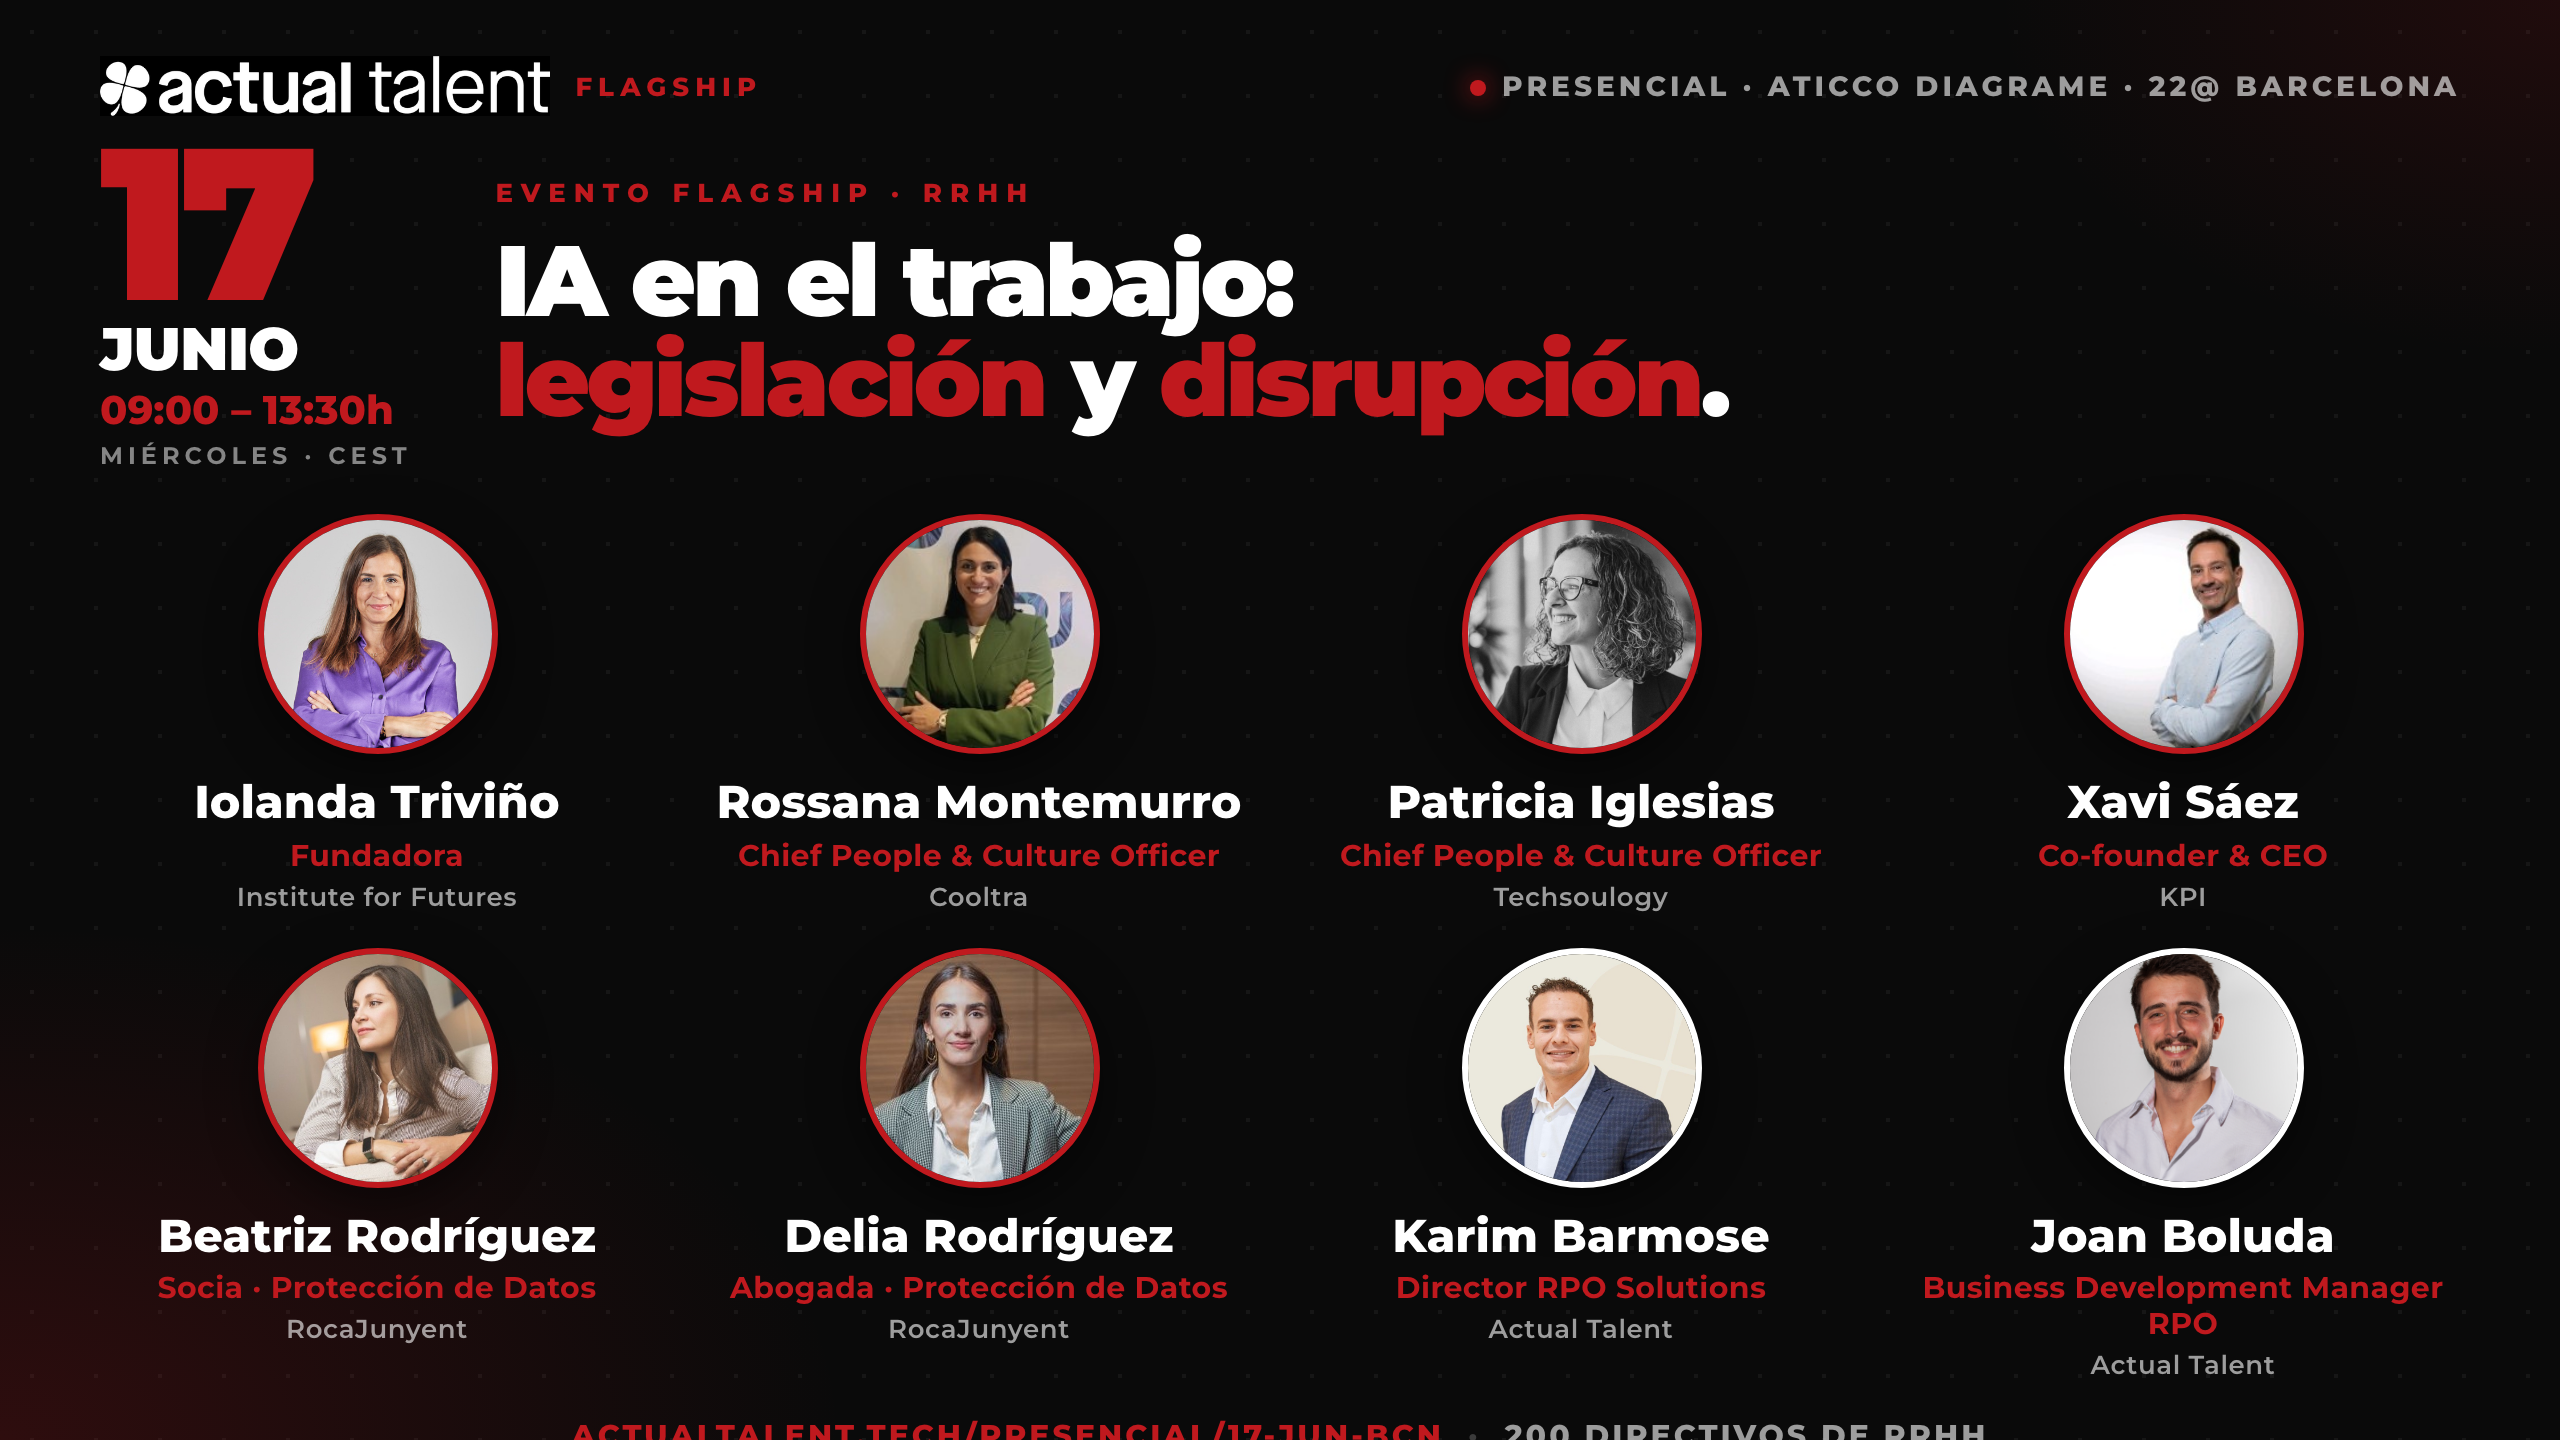
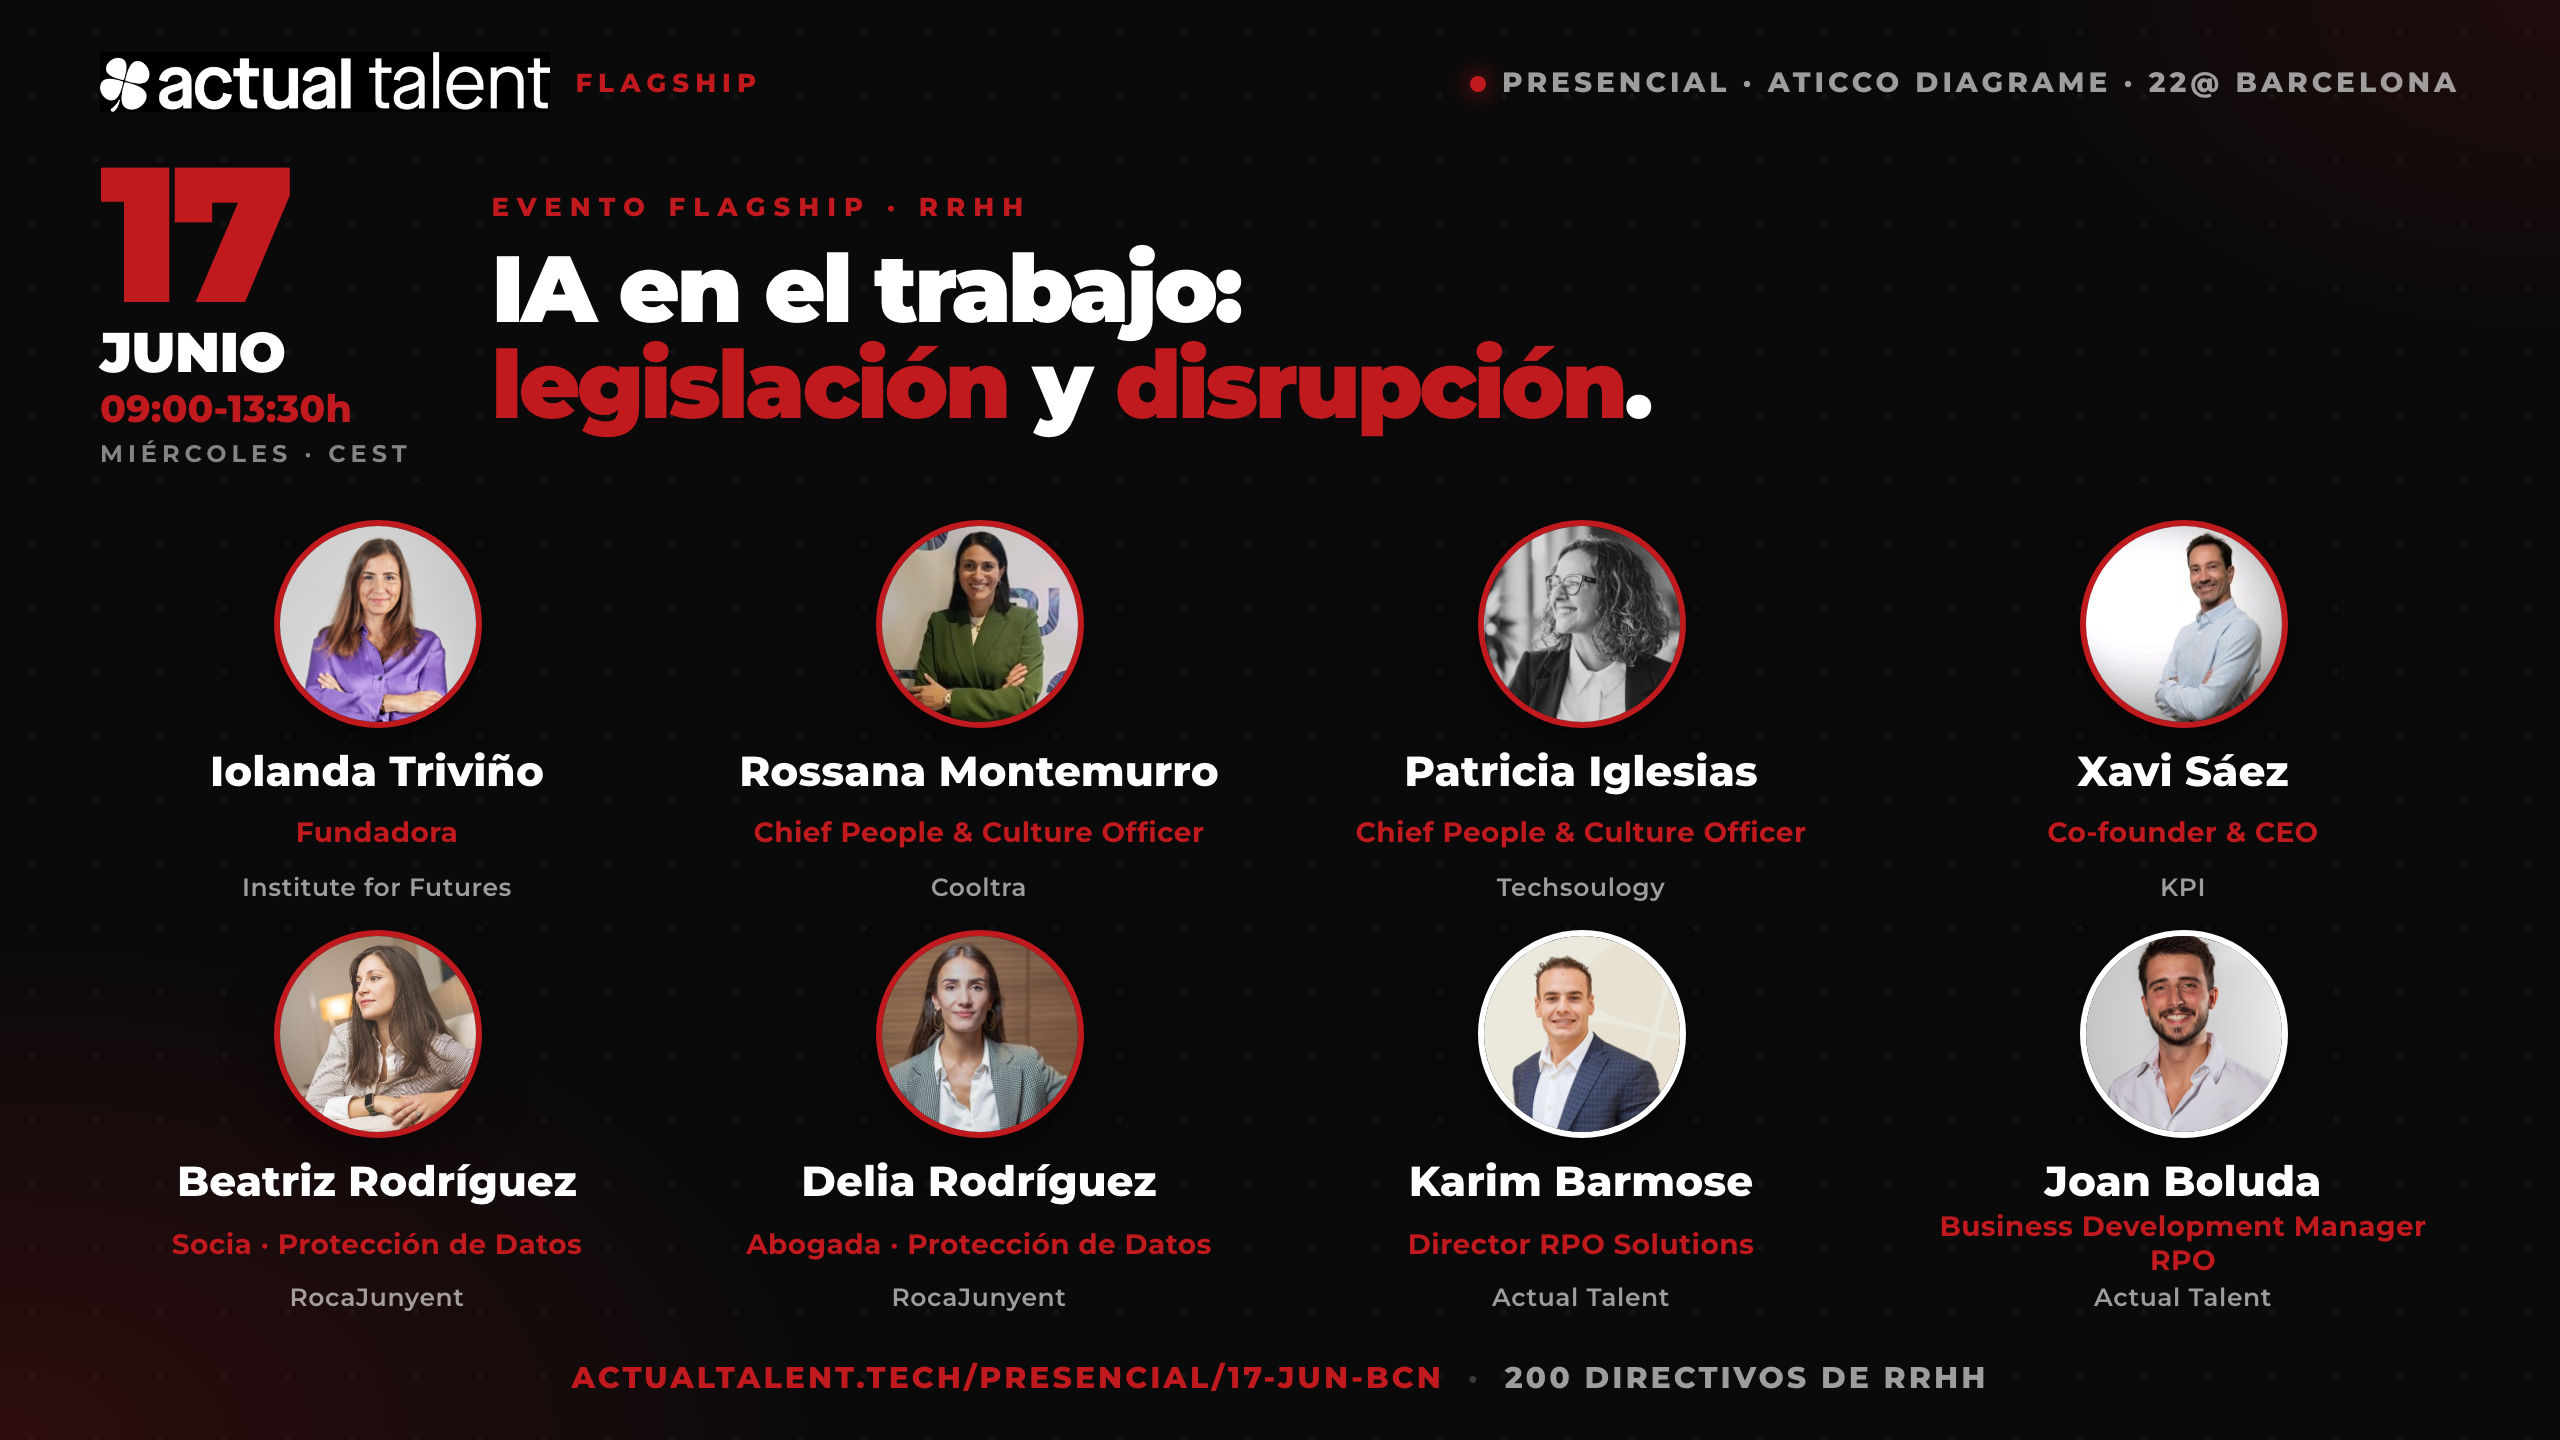
17-jun-bcn flyers: LinkedIn contenido centrado (sin corte abajo), Luma caras grandes (144px), hora sin en-dash

diff --git a/presencial/17-jun-bcn/flyer-linkedin/index.html b/presencial/17-jun-bcn/flyer-linkedin/index.html
@@ -16,33 +16,34 @@ body{font-family:'Montserrat',sans-serif;background:#000;-webkit-font-smoothing:
 .flyer::before{content:'';position:absolute;inset:0;background:
   radial-gradient(ellipse 60% 65% at 0% 100%,rgba(192,25,30,.20) 0%,transparent 55%),
   radial-gradient(ellipse 40% 45% at 100% 0%,rgba(192,25,30,.12) 0%,transparent 55%);pointer-events:none;z-index:1}
-.wrap{position:absolute;inset:0;z-index:5;padding:28px 50px 24px;display:flex;flex-direction:column}
-.topbar{display:flex;align-items:center;justify-content:space-between}
+.wrap{position:absolute;inset:0;z-index:5;padding:26px 50px 22px;display:flex;flex-direction:column;justify-content:space-between}
+.topbar{display:flex;align-items:center;justify-content:space-between;flex:0 0 auto}
 .brand-mark{display:flex;align-items:center;gap:13px}
 .brand-logo{height:30px;width:auto;display:block}
 .brand-tag{font-size:13px;font-weight:800;letter-spacing:3px;text-transform:uppercase;color:var(--red)}
 .topbar-right{font-size:14px;font-weight:800;letter-spacing:2px;text-transform:uppercase;color:rgba(255,255,255,.6)}
 .topbar-right .dot{display:inline-block;width:8px;height:8px;background:var(--red);border-radius:50%;margin-right:8px;vertical-align:middle;box-shadow:0 0 12px var(--red)}
-.hero{display:flex;gap:42px;align-items:center;margin-top:10px}
+.main{flex:1 1 auto;display:flex;flex-direction:column;justify-content:center;gap:26px;min-height:0}
+.hero{display:flex;gap:40px;align-items:center}
 .date-block{flex-shrink:0}
-.date-num{font-size:108px;font-weight:900;line-height:.8;color:var(--red);letter-spacing:-.05em}
+.date-num{font-size:96px;font-weight:900;line-height:.8;color:var(--red);letter-spacing:-.05em}
 .date-side{display:flex;flex-direction:column;gap:3px;margin-top:6px}
-.date-month{font-size:30px;font-weight:900;line-height:1;text-transform:uppercase;letter-spacing:-.01em}
-.date-time{font-size:20px;font-weight:800;color:var(--red)}
+.date-month{font-size:28px;font-weight:900;line-height:1;text-transform:uppercase;letter-spacing:-.01em}
+.date-time{font-size:19px;font-weight:800;color:var(--red)}
 .date-tz{font-size:12px;font-weight:700;letter-spacing:2.5px;text-transform:uppercase;color:rgba(255,255,255,.5)}
 .title-wrap{flex:1}
-.eyebrow{font-size:13px;font-weight:800;letter-spacing:4px;text-transform:uppercase;color:var(--red);margin-bottom:12px}
-.title{font-size:50px;font-weight:900;line-height:1;letter-spacing:-.035em}
+.eyebrow{font-size:13px;font-weight:800;letter-spacing:4px;text-transform:uppercase;color:var(--red);margin-bottom:10px}
+.title{font-size:47px;font-weight:900;line-height:1.02;letter-spacing:-.035em}
 .title .accent{color:var(--red)}
-.speakers{margin-top:22px;display:grid;grid-template-columns:repeat(4,1fr);gap:18px 24px}
+.speakers{display:grid;grid-template-columns:repeat(4,1fr);gap:14px 24px}
 .speaker{display:flex;flex-direction:column;align-items:center;text-align:center}
-.sp-photo{width:120px;height:120px;border-radius:50%;overflow:hidden;border:3px solid var(--red);box-shadow:0 8px 24px rgba(0,0,0,.5);margin-bottom:12px}
+.sp-photo{width:104px;height:104px;border-radius:50%;overflow:hidden;border:3px solid var(--red);box-shadow:0 8px 24px rgba(0,0,0,.5);margin-bottom:10px}
 .sp-photo.host{border-color:#fff}
 .sp-photo img{width:100%;height:100%;object-fit:cover;display:block}
-.sp-name{font-size:23px;font-weight:800;line-height:1.1;margin-bottom:4px}
-.sp-cargo{font-size:15px;font-weight:700;letter-spacing:.2px;color:var(--red);line-height:1.2;margin-bottom:3px}
-.sp-org{font-size:13px;font-weight:600;letter-spacing:.3px;color:rgba(255,255,255,.6)}
-.footer{margin-top:auto;padding-top:18px;text-align:center}
+.sp-name{font-size:21px;font-weight:800;line-height:1.1;margin-bottom:3px}
+.sp-cargo{font-size:14px;font-weight:700;letter-spacing:.2px;color:var(--red);line-height:1.2;margin-bottom:2px;min-height:34px;display:flex;align-items:center;justify-content:center}
+.sp-org{font-size:12.5px;font-weight:600;letter-spacing:.3px;color:rgba(255,255,255,.6)}
+.footer{flex:0 0 auto;text-align:center}
 .footer .u{font-size:15px;font-weight:800;letter-spacing:1.5px;text-transform:uppercase;color:rgba(255,255,255,.6)}
 .footer .u .link{color:var(--red)}.footer .u .sep{color:rgba(255,255,255,.2);margin:0 12px}
 </style>
@@ -55,30 +56,32 @@ body{font-family:'Montserrat',sans-serif;background:#000;-webkit-font-smoothing:
       <div class="topbar-right"><span class="dot"></span>Presencial · Aticco Diagrame · 22@ Barcelona</div>
     </div>
 
-    <div class="hero">
-      <div class="date-block">
-        <div class="date-num">17</div>
-        <div class="date-side">
-          <div class="date-month">Junio</div>
-          <div class="date-time">09:00 – 13:30h</div>
-          <div class="date-tz">Miércoles · CEST</div>
+    <div class="main">
+      <div class="hero">
+        <div class="date-block">
+          <div class="date-num">17</div>
+          <div class="date-side">
+            <div class="date-month">Junio</div>
+            <div class="date-time">09:00-13:30h</div>
+            <div class="date-tz">Miércoles · CEST</div>
+          </div>
+        </div>
+        <div class="title-wrap">
+          <div class="eyebrow">Evento flagship · RRHH</div>
+          <h1 class="title">IA en el trabajo:<br><span class="accent">legislación</span> y <span class="accent">disrupción</span>.</h1>
         </div>
       </div>
-      <div class="title-wrap">
-        <div class="eyebrow">Evento flagship · RRHH</div>
-        <h1 class="title">IA en el trabajo:<br><span class="accent">legislación</span> y <span class="accent">disrupción</span>.</h1>
-      </div>
-    </div>
 
-    <div class="speakers">
-      <div class="speaker"><div class="sp-photo"><img src="../../../webinar/assets/speakers/iolanda-trivino.jpg" alt="Iolanda Triviño"></div><div class="sp-name">Iolanda Triviño</div><div class="sp-cargo">Fundadora</div><div class="sp-org">Institute for Futures</div></div>
-      <div class="speaker"><div class="sp-photo"><img src="../../../webinar/assets/speakers/rossana-montemurro.jpg" alt="Rossana Montemurro"></div><div class="sp-name">Rossana Montemurro</div><div class="sp-cargo">Chief People &amp; Culture Officer</div><div class="sp-org">Cooltra</div></div>
-      <div class="speaker"><div class="sp-photo"><img src="../../../webinar/assets/speakers/patricia-iglesias.jpg" alt="Patricia Iglesias"></div><div class="sp-name">Patricia Iglesias</div><div class="sp-cargo">Chief People &amp; Culture Officer</div><div class="sp-org">Techsoulogy</div></div>
-      <div class="speaker"><div class="sp-photo"><img src="../../../webinar/assets/speakers/xavi-saez.jpg" alt="Xavi Sáez"></div><div class="sp-name">Xavi Sáez</div><div class="sp-cargo">Co-founder &amp; CEO</div><div class="sp-org">KPI</div></div>
-      <div class="speaker"><div class="sp-photo"><img src="../../../webinar/assets/speakers/beatriz-rodriguez.jpg" alt="Beatriz Rodríguez"></div><div class="sp-name">Beatriz Rodríguez</div><div class="sp-cargo">Socia · Protección de Datos</div><div class="sp-org">RocaJunyent</div></div>
-      <div class="speaker"><div class="sp-photo"><img src="../../../webinar/assets/speakers/delia-rodriguez.jpg" alt="Delia Rodríguez"></div><div class="sp-name">Delia Rodríguez</div><div class="sp-cargo">Abogada · Protección de Datos</div><div class="sp-org">RocaJunyent</div></div>
-      <div class="speaker"><div class="sp-photo host"><img src="../../../webinar/assets/speakers/karim-barmose.jpg" alt="Karim Barmose"></div><div class="sp-name">Karim Barmose</div><div class="sp-cargo">Director RPO Solutions</div><div class="sp-org">Actual Talent</div></div>
-      <div class="speaker"><div class="sp-photo host"><img src="../../../webinar/assets/speakers/joan-boluda.jpg" alt="Joan Boluda"></div><div class="sp-name">Joan Boluda</div><div class="sp-cargo">Business Development Manager RPO</div><div class="sp-org">Actual Talent</div></div>
+      <div class="speakers">
+        <div class="speaker"><div class="sp-photo"><img src="../../../webinar/assets/speakers/iolanda-trivino.jpg" alt="Iolanda Triviño"></div><div class="sp-name">Iolanda Triviño</div><div class="sp-cargo">Fundadora</div><div class="sp-org">Institute for Futures</div></div>
+        <div class="speaker"><div class="sp-photo"><img src="../../../webinar/assets/speakers/rossana-montemurro.jpg" alt="Rossana Montemurro"></div><div class="sp-name">Rossana Montemurro</div><div class="sp-cargo">Chief People &amp; Culture Officer</div><div class="sp-org">Cooltra</div></div>
+        <div class="speaker"><div class="sp-photo"><img src="../../../webinar/assets/speakers/patricia-iglesias.jpg" alt="Patricia Iglesias"></div><div class="sp-name">Patricia Iglesias</div><div class="sp-cargo">Chief People &amp; Culture Officer</div><div class="sp-org">Techsoulogy</div></div>
+        <div class="speaker"><div class="sp-photo"><img src="../../../webinar/assets/speakers/xavi-saez.jpg" alt="Xavi Sáez"></div><div class="sp-name">Xavi Sáez</div><div class="sp-cargo">Co-founder &amp; CEO</div><div class="sp-org">KPI</div></div>
+        <div class="speaker"><div class="sp-photo"><img src="../../../webinar/assets/speakers/beatriz-rodriguez.jpg" alt="Beatriz Rodríguez"></div><div class="sp-name">Beatriz Rodríguez</div><div class="sp-cargo">Socia · Protección de Datos</div><div class="sp-org">RocaJunyent</div></div>
+        <div class="speaker"><div class="sp-photo"><img src="../../../webinar/assets/speakers/delia-rodriguez.jpg" alt="Delia Rodríguez"></div><div class="sp-name">Delia Rodríguez</div><div class="sp-cargo">Abogada · Protección de Datos</div><div class="sp-org">RocaJunyent</div></div>
+        <div class="speaker"><div class="sp-photo host"><img src="../../../webinar/assets/speakers/karim-barmose.jpg" alt="Karim Barmose"></div><div class="sp-name">Karim Barmose</div><div class="sp-cargo">Director RPO Solutions</div><div class="sp-org">Actual Talent</div></div>
+        <div class="speaker"><div class="sp-photo host"><img src="../../../webinar/assets/speakers/joan-boluda.jpg" alt="Joan Boluda"></div><div class="sp-name">Joan Boluda</div><div class="sp-cargo">Business Development Manager RPO</div><div class="sp-org">Actual Talent</div></div>
+      </div>
     </div>
 
     <div class="footer">

diff --git a/presencial/17-jun-bcn/flyer-square/index.html b/presencial/17-jun-bcn/flyer-square/index.html
@@ -34,10 +34,10 @@ body{font-family:'Montserrat',sans-serif;background:#000;-webkit-font-smoothing:
 .title .a{color:var(--red)}
 .lineup{margin-top:auto;padding-top:30px}
 .lineup-label{font-size:12px;font-weight:800;letter-spacing:3px;text-transform:uppercase;color:rgba(255,255,255,.4);margin-bottom:16px}
-.faces{display:flex;gap:14px}
-.faces .f{width:96px;height:96px;border-radius:50%;overflow:hidden;border:3px solid var(--red);box-shadow:0 6px 20px rgba(0,0,0,.4)}
+.faces{display:flex;gap:16px;justify-content:space-between}
+.faces .f{width:144px;height:144px;border-radius:50%;overflow:hidden;border:4px solid var(--red);box-shadow:0 6px 20px rgba(0,0,0,.4)}
 .faces .f img{width:100%;height:100%;object-fit:cover;display:block}
-.names{font-size:18px;font-weight:600;color:rgba(255,255,255,.78);margin-top:16px;line-height:1.45;max-width:920px}
+.names{font-size:20px;font-weight:600;color:rgba(255,255,255,.82);margin-top:20px;line-height:1.5;max-width:960px}
 .names b{color:var(--white);font-weight:800}
 .footer{display:flex;align-items:flex-end;justify-content:space-between;margin-top:32px;gap:24px;border-top:1px solid rgba(255,255,255,.1);padding-top:24px}
 .f-label{font-size:11px;font-weight:800;letter-spacing:2.5px;text-transform:uppercase;color:rgba(255,255,255,.35);margin-bottom:5px}
@@ -57,7 +57,7 @@ body{font-family:'Montserrat',sans-serif;background:#000;-webkit-font-smoothing:
       <div class="date-num">17</div>
       <div class="date-side">
         <div class="date-month">Junio</div>
-        <div class="date-time">09:00 – 13:30h</div>
+        <div class="date-time">09:00-13:30h</div>
         <div class="date-tz">Miércoles · CEST</div>
       </div>
     </div>
